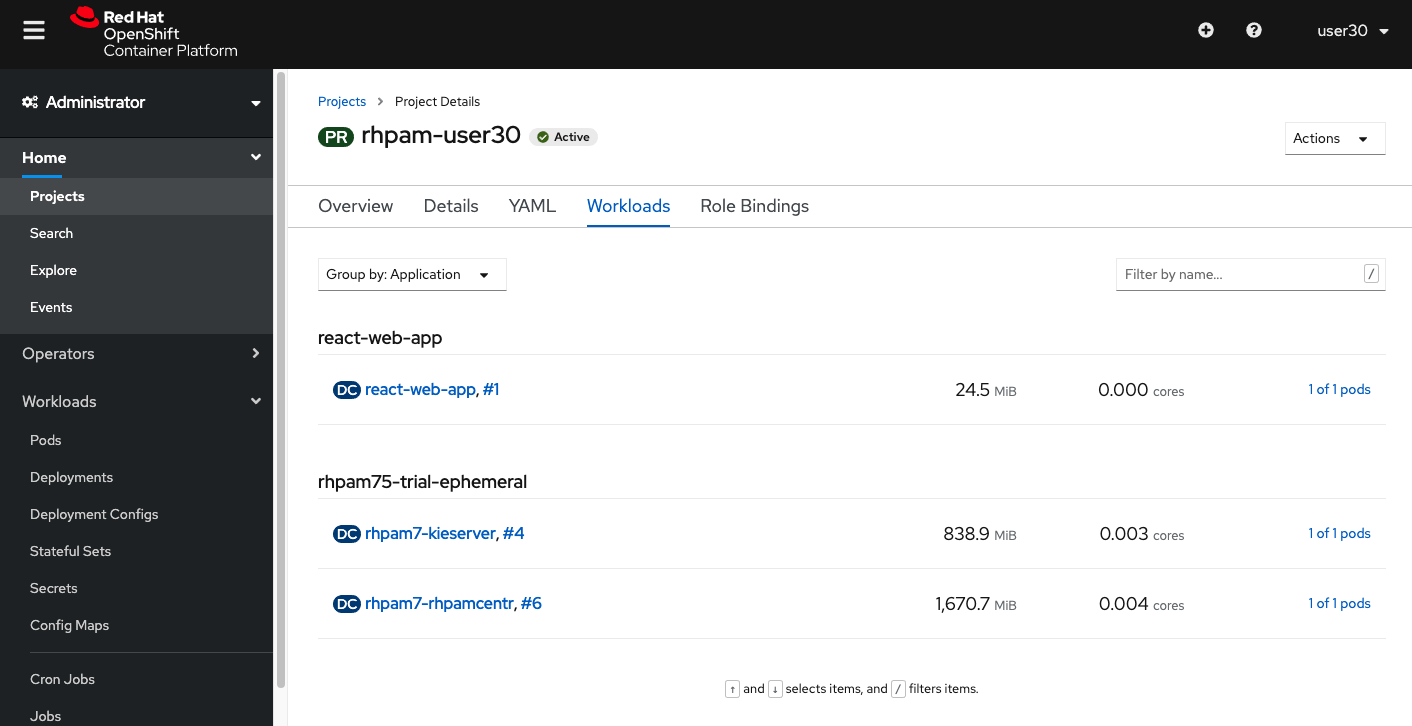
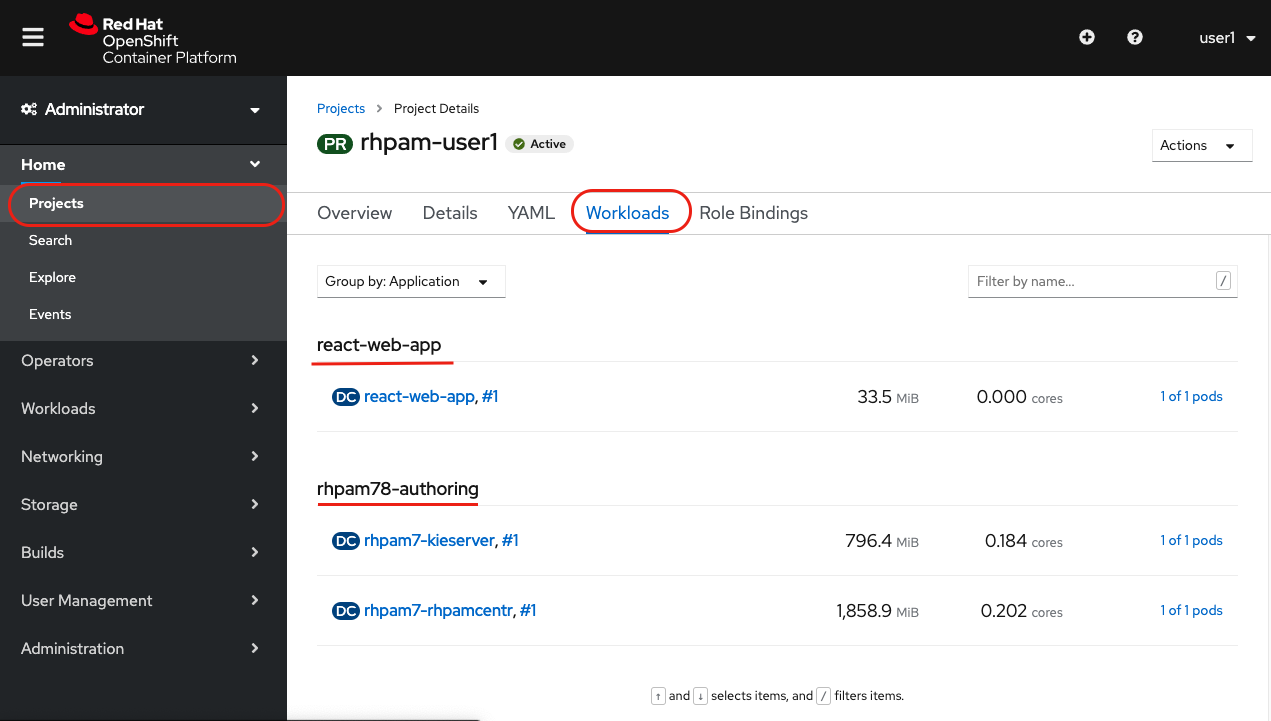
finishing review and updates for module 1 and pam 78 authoring

diff --git a/workshop-environment.md b/workshop-environment.md
@@ -1,0 +1,84 @@
+# 4. Accessing your work environment
+
+The cloud native OpenShift environment has already been provisioned for you. You can access it either via a terminal command line (for example if you're an IT professional) or via a web-based console. In this Workshop you will have your own OpenShift namespace to work.
+
+## Environment Details
+
+1. This is the link to access [Red Hat Openshift Container Platform]({{ OPENSHIFT_CONSOLE_URL }}){:target="_blank"}
+2. The instructor should also assign to you a unique user number, which you will use from now on to access your OCP environment.
+    - OpenShift Console username: userX (i.e. user1)
+    - OpenShift Console password: openshift
+
+## Login on OpenShift
+
+In this workshop, you can choose between two possible ways to interact with OpenShift: Web Console or Command Line.
+
+### Via Web Console
+
+To access OpenShift via the Web Console:
+
+1. Open the [Red Hat Openshift Container Platform]({{ OPENSHIFT_CONSOLE_URL }}) in your browser.
+2. Login with username `userX`{{copy}} and password `openshift`{{copy}}
+3. You will see a list of the projects that you have access to. In this case, only the _rhpam-userX_ project.
+4. Finally, click on the project to open the project page.
+
+### Via Command Line
+
+In order to login via CLI, you will need in your local environment the OpenShift CLI tool. If you don't have it, you can select and download the [OpenShift CLI tool](https://mirror.openshift.com/pub/openshift-v4/clients/ocp/4.2.25/openshift-client-linux-4.2.25.tar.gz) according to your environment.
+
+Alternatively, you can use a browser based OpenShift terminal. Your instructors will show this option if need it.
+
+The easiest way to login to the OpenShift system via the command line interface, is to access it via Web Console, log in and click on `Copy Login Command`.
+
+![OCP Copy Login Command]({% image_path ocp-copy-login-command.png %}){:width="600px"}
+
+1. Login to [Openshift Console](https://{{ OPENSHIFT_CONSOLE_URL }}){:target="_blank"}
+2. Click on `Copy Login Command`
+3. OpenShift will request your credentials again. Inform them.
+4. Click on `Display Token`
+5. Look for the `Login with this token` session, and copy the command which is similar to:
+
+```
+oc login --token=rVO1oDOjspF6CLTW53zddinWRrpxAfDsywzptM0jsiY --server=https://api.cluster-rio-ead1.rio-ead1.example.opentlc.com:6443
+```
+
+We have already provisioned an environment for you, and a project called **_rhpam-userX_**.
+
+## Red Hat Process Automation Manager on OpenShift Platform
+
+Once you are in the platform, on the left menu you can find the `Home` section, and under it, you shoud click on `Projects`. Select the project `rhpam-userX`, and click on the `Workloads` tab. You can see there are two applications:
+
+  - `react-web-app`: A react application which communicates via REST and consumes business assets from PAM engine (Kie Server);
+
+  - `rhpam78-authoring`: An environment that allows authoring, execution and monitoring of business assets; 
+
+  ![RHPAM Operator]({% image_path rhpam-projects.png %}){:width="600px"}
+
+Inside these application you can see three pods listed:
+
+  - `react-web-app`
+    - `react-web-app`: Pod containing the react client application;
+  - `rhpam78-authoring`
+    - `rhpam7-kieserver`: Pod containing PAM execution engine (Kie Server);
+    - `rhpam7-rhpamcentr`: Por containing Business Central, for authoring, management and monitoring;
+
+As you can notice, when deployed on OCP, each component of Red Hat PAM is provisioned within it's own pod. The components above and environment are the ones which we are going to use during this workshop.
+
+<!-- ### Provisioning PAM from scratch
+
+The Workloads page shows the  current working environment provisioned for you. But what if you have special needs of tools and components? Or you simply want to know what you are working on.
+
+Let's go ahead and create a whole new project using Red Hat PAM Templates and starting a new deployment based on your requirements.
+
+RHPAM 7.5 brings with it an OpenShift operator that can simplify the installation process. The operator creates for the deployed environment an YAML, and based on it, it ensures that the environment remains consistent in all times.  
+ -->
+<!---
+#### RHPAM Operator
+
+ Since Red Hat PAM 7.5, Red Hat PAM brings OpenShift Operators to help on easily deploying new instances. Let's use the provided operator to create a new environment.
+
+ [#TODO] will require pre-provisioning the operator in each user namespace;
+
+//// -->
+
+Now that we know more details about the environment where PAM is running, let's access it!

diff --git a/rhpam-openshift.md b/rhpam-openshift.md
@@ -1,0 +1,40 @@
+#### 7. Overview: RHPAM Installation on OpenShift
+
+RHPAM installation on OpenShift can be made using an Operator or using pre-defined templates. This allows easy deployment of environments that aims specific goals.
+
+_An Operator is a method of packaging, deploying and managing a Kubernetes application. A Kubernetes application is an application that is both deployed on Kubernetes and managed using the Kubernetes APIs and kubectl tooling._
+
+So, depending on whether you want to develop, integrate, test or run processes and other assets, you can choose the installation configurations that will create an environment that reflects the needs of your choice. Once the architecture is defined, the user can opt to do the installation via template or using the RHPAM Operator available on the OperatorHub.
+
+![RHPAM Operator]({% image_path rhpam-operator.png %}){:width="600px"}
+
+When deploying PAM via Operator, the user will deploy a KieApp. It is possible to customize the configurations via yaml, or, use the Operation Installer UI provided by the operator:
+
+![RHPAM Operator Installer UI]({% image_path rhpam-operator-installer-ui.png %}){:width="600px"}
+
+Like mentioned, you have available some pre-defined templates to deploy PAM. Here are a summary some of the options:
+
+- **rhpam-trial**: A trial environment that you can set up quickly and use to evaluate or demonstrate developing and running assets. Includes Business Central and a Process Server. This environment does not use any persistent storage, and any work you do in the environment is not saved.
+- **rhpam-authoring**: The environment of choice if you are a business user or developer that wants to author business automation projects, assets and applications. Provides an authoring environment including Business Central and an execution server (Kie Server).
+- **rhpam-authoring-ha**: Same as the previous environment, but with high availability features. This implies that there are multiple (by default 2) instances of Business Central and execution server deployed.
+- **rhpam-production**: An environment for running existing services for staging and production purposes. If you are the administrator of the platform and you want a production like environment. The template provisions a monitoring and management environment, a smart router and 2 execution server groups.
+
+<!-- What kind of environment is right for you, depends on your requirements:
+
+- In which deployment environment is the platform going to be provisioned?
+  - Is the environment planned for process and/or rules development?
+  - Is the environment planned for integration testing?
+  - Is the environment planned to be a production environment?
+- What kind of deployment architecture and methodology do you prefer?
+  - Do you want to be able to install and update process definitions and rules via the management console?
+  - Do you use the concept of immutable containers, and thus don't allow the provisioning of applications through the management console?
+- Do you have a requirement for high availability of the platform?
+- What kind of database do you want to integrate with? -->
+
+For example, if you want an environment to author rules and processes, you can use the `rhpam75-authoring` that contains all the components necessary to do so. See the image below.
+
+![RHPAM 70 Authoring]({% image_path rhpam-authoring.png %}){:width="600px"}
+
+For this workshop, the authoring template would be enough to provide a complete authoring environment with a process server for you to test your assets. However due to the restrictions of the infrastructure of this environment (the platform does not provide persistent storage), the installation was made based on the ephemeral template instead.
+
+![RHPAM 70 Ephemeral]({% image_path rhpam-ephemeral-template.png %}){:width="600px"}

diff --git a/finish.md b/finish.md
@@ -1,3 +1,27 @@
 This scenario has explained the main components of RHPAM and provided you information on how the installation should be done over OpenShift. It also guided you on how to access and configure your environment to start authoring business assets.
 
 In the next scenarios you will learn how to build those assets based on the use case described in this module.
+
+### Environment information summarized
+
+To access OpenShift via the Web Console:
+
+1. Open the [Red Hat Openshift Container Platform]({{ OPENSHIFT_CONSOLE_URL }}) in your browser.
+2. Login with username `userX`{{copy}} and password `openshift`{{copy}}
+3. You will see a list of the projects that you have access to. In this case, only the _rhpam-userX_ project.
+4. Finally, click on the project to open the project page.
+
+To access Business Central: 
+
+1. Login to your [Openshift console](https://{{ OPENSHIFT_CONSOLE_URL }}){:target="_blank"} tab.
+
+2. Make sure you are on the `Developer` perspective. On the left menu, select the `Topology` option and check if you have the `rhpam-userX` project selected. .
+
+3. To Business Central, click on the link for `rhpam7-rhpamcentr` (4 Step on image below):
+
+	![PAM Project]({% image_path topology-details.png %}){:width="600px"}
+
+5. Login in Business Central with the following credentials:
+
+ - user: `pamAdmin`{{copy}}
+ - password: `redhatpam1!`{{copy}}

diff --git a/intro.md b/intro.md
@@ -1,4 +1,4 @@
-# Introduction
+# 1. Introduction
 
 Welcome to the first module of the Red Hat Process Automation Manager (RHPAM) workshop. During this module, you will have an overview of:
 
@@ -9,7 +9,7 @@ Welcome to the first module of the Red Hat Process Automation Manager (RHPAM) wo
 
 We will inform the access details for each environment later on as we get to the hands-on exercises. Let's start by first understanding the use case we will solve.
 
-# Your Working Environment
+**Your Working Environment**
 
 A whole environment with Red Hat Process Automation Manager has already been provisioned for you within an OpenShift platform.
 

diff --git a/authentication-authorization.md b/authentication-authorization.md
@@ -1,4 +1,4 @@
-# Security in PAM
+# 6. Users and Groups security within Red Hat PAM
 
 Red Hat Process Automation Manager security system is based on users, roles and groups. These configurations comes by default from the application server PAM is running on top of, in this case Red Hat Enterprise Application Server (Red Hat EAP).  
 

diff --git a/components-overview.md b/components-overview.md
@@ -1,4 +1,4 @@
-# RHPAM Components and Architecture
+# 3. RHPAM Components and Architecture
 
 Red Hat Process Automation Manager (a.k.a. RHPAM ) enables you to automate different pieces of your business requirements like automating the decision making, the flow of the decision making, the interaction between the people and systems.
 

diff --git a/use-case-overview.md b/use-case-overview.md
@@ -1,4 +1,4 @@
-# Use Case Overview
+# 2. Use Case Overview
 
 You are a business automation specialist consultant who was hired by a bank, Pecunia Corp. They need you to automate a critical scenario: the _Loan Approval Process_.
 

diff --git a/accessing-pam.md b/accessing-pam.md
@@ -1,4 +1,4 @@
-#  Business Central Security
+# 5. Accessing Business Central
 
 So far you received access to the OpenShift where your PAM environment is available. Now we will access PAM workbench known as Business Central.
 
